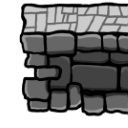
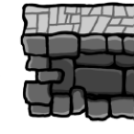
idk

diff --git a/Physics/Physics/core/src/main/java/edu/cornell/cis3152/physics/GameplayScene.java b/Physics/Physics/core/src/main/java/edu/cornell/cis3152/physics/GameplayScene.java
@@ -24,6 +24,9 @@
  */
 package edu.cornell.cis3152.physics;
 
+import com.badlogic.gdx.graphics.Texture.TextureFilter;
+import com.badlogic.gdx.graphics.Texture.TextureWrap;
+import com.badlogic.gdx.graphics.g2d.TextureRegion;
 import com.badlogic.gdx.graphics.glutils.ShapeRenderer;
 import com.badlogic.gdx.math.Interpolation;
 import com.badlogic.gdx.math.MathUtils;
@@ -618,6 +621,7 @@ public class GameplayScene implements Screen {
                 System.out.println(width + "x" + height);
                 JsonValue data = layer.get("data");
 
+                JsonValue settings = levelInfo.get("walls");
                 int[] tileData = new int[width * height];
                 for (int i = 0; i < data.size; i++) {
                     tileData[i] = data.getInt(i);
@@ -637,19 +641,6 @@ public class GameplayScene implements Screen {
                     int index = y * width + x;
                     int tileId = tileData[index];
 
-                    boolean isFloor = false;
-                    boolean isWall = false;
-                    boolean isPlatform = false;
-
-                    if (tileId == 8 || tileId == 9 || tileId == 10) {
-                        isFloor = true;
-                    } else if (tileId == 14) {
-                        isWall = true;
-                    } else if (tileId == 2 || tileId == 3 || tileId == 4) {
-                        isPlatform = true;
-                    }
-
-                    JsonValue settings = levelInfo.get("walls");
                     float tileunits = 32f/300f;
                     Surface tile = new Surface(points, units, settings);
                     int ind = tileId ;
@@ -659,13 +650,15 @@ public class GameplayScene implements Screen {
                     System.out.println(directory.getEntry("stoneTile"+(ind), Texture.class));
                     System.out.println("stoneTile"+(ind));
 
-                    tile.setTexture(directory.getEntry("stoneTile"+(ind), Texture.class));
+                    TextureRegion region = directory.getEntry("stoneTile"+tileId, TextureRegion.class);
+                    region.getTexture()  // this is the shared atlas
+                        .setFilter(TextureFilter.Nearest, TextureFilter.Nearest);
 
-                    if (isWall) {
-                        tile.getObstacle().setName("wall");
-                    } else if (isPlatform) {
+                    tile.setTextureRegion(region);
+
+                    if (tileId == 2 || tileId == 3 || tileId == 4) {
                         tile.getObstacle().setName("platform");
-                    } else if (isFloor) {
+                    } else if (tileId == 8 || tileId == 9 || tileId == 10) {
                         tile.getObstacle().setName("floor");
                     } else {
                         tile.getObstacle().setName("wall");

diff --git a/Physics/Physics/lwjgl3/src/main/java/edu/cornell/cis3152/physics/lwjgl3/DesktopLauncher.java b/Physics/Physics/lwjgl3/src/main/java/edu/cornell/cis3152/physics/lwjgl3/DesktopLauncher.java
@@ -56,8 +56,8 @@ public class DesktopLauncher {
         config.title = "The Gilded Flame";
 
         // Use windowed mode
-        config.fullscreen = true;
-//        config.fullscreen = false;
+//        config.fullscreen = true;
+        config.fullscreen = false;
         config.resizable = false;
         config.width = 1280;
         config.height = 720;
